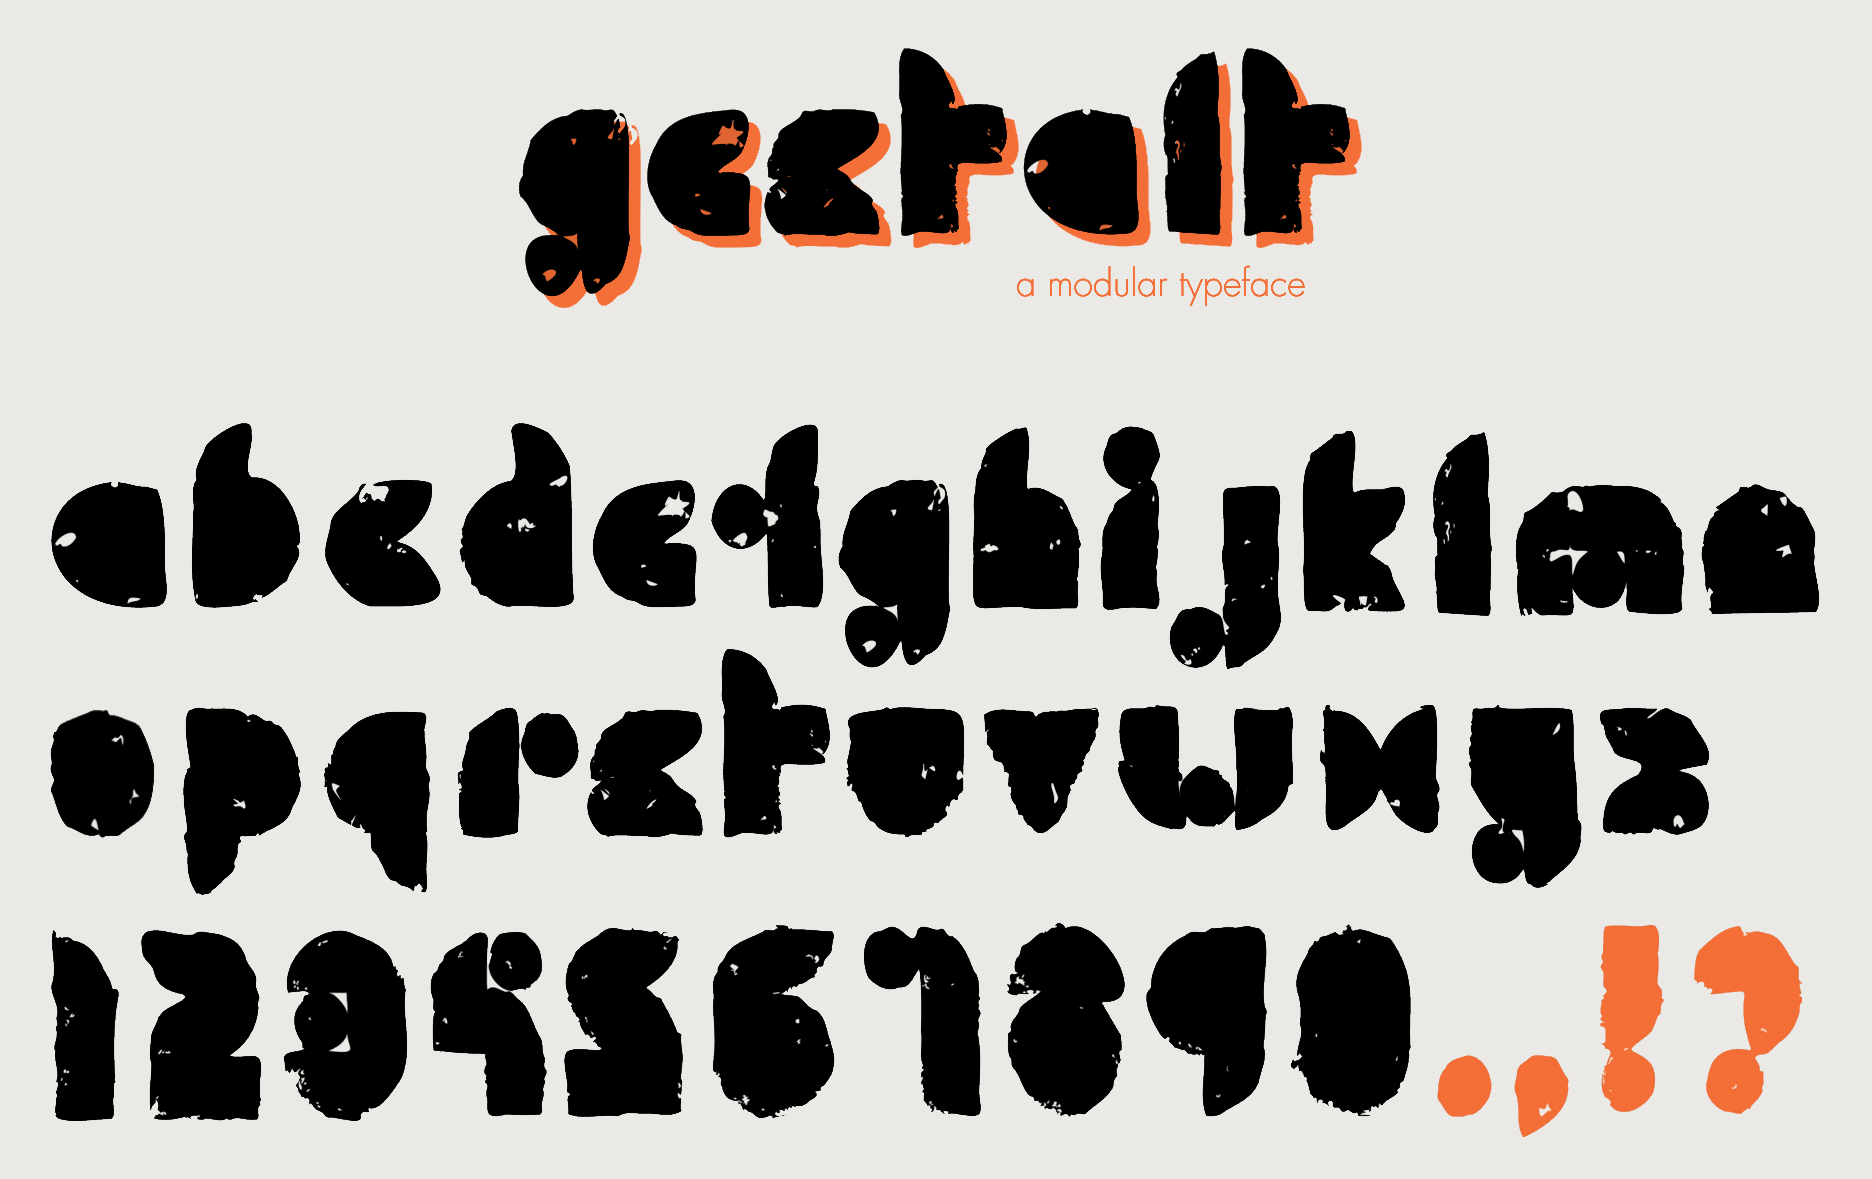
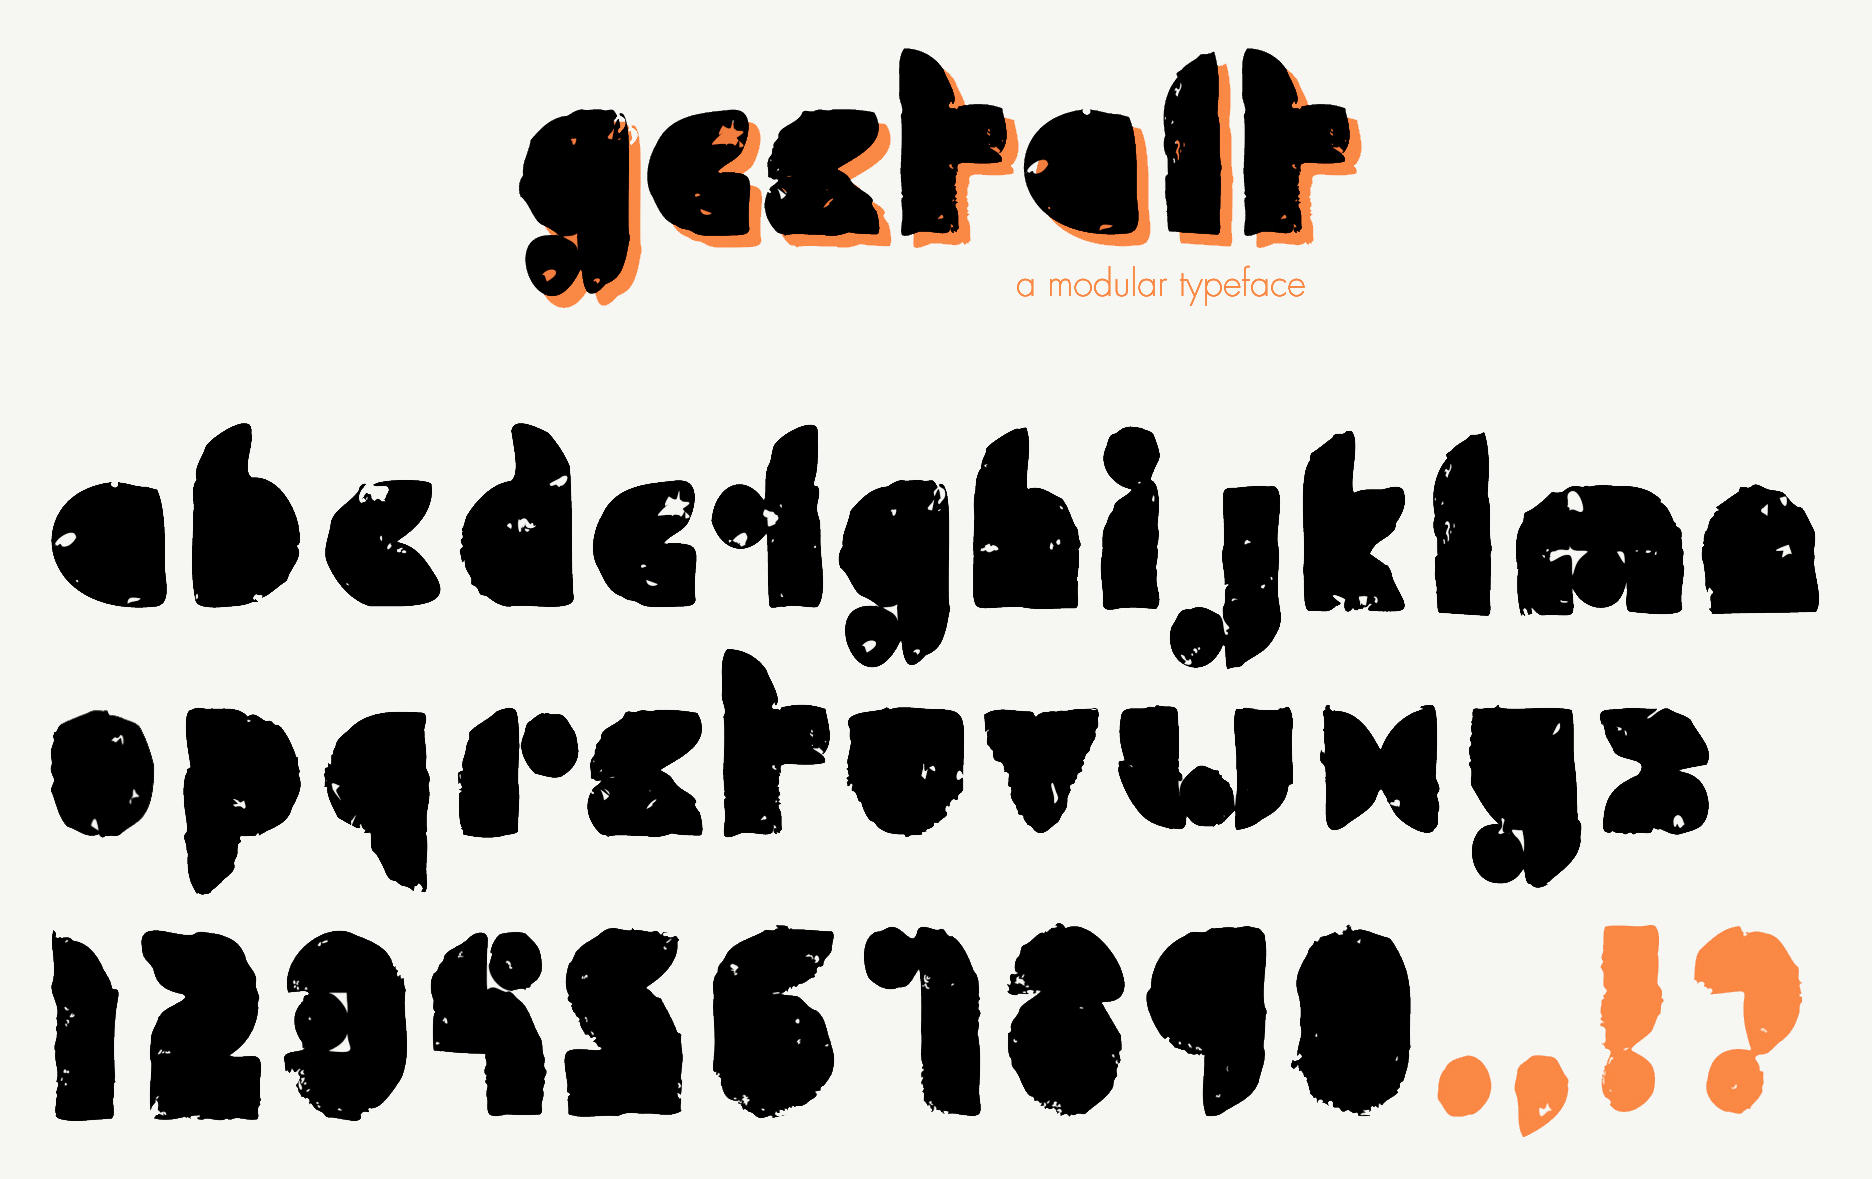
bg color change

diff --git a/assets/css/main.css b/assets/css/main.css
@@ -17,7 +17,7 @@ Bastien Sozeau <contact@noirblancrouge.com>
 
 /* Global colors */
 :root {
-	--background-color: #ffffff;
+	--background-color: #f8f5e8;
 	--default-color: #343434;
 	--heading-color: #050d18;
 	--accent-color: #d53e07;
